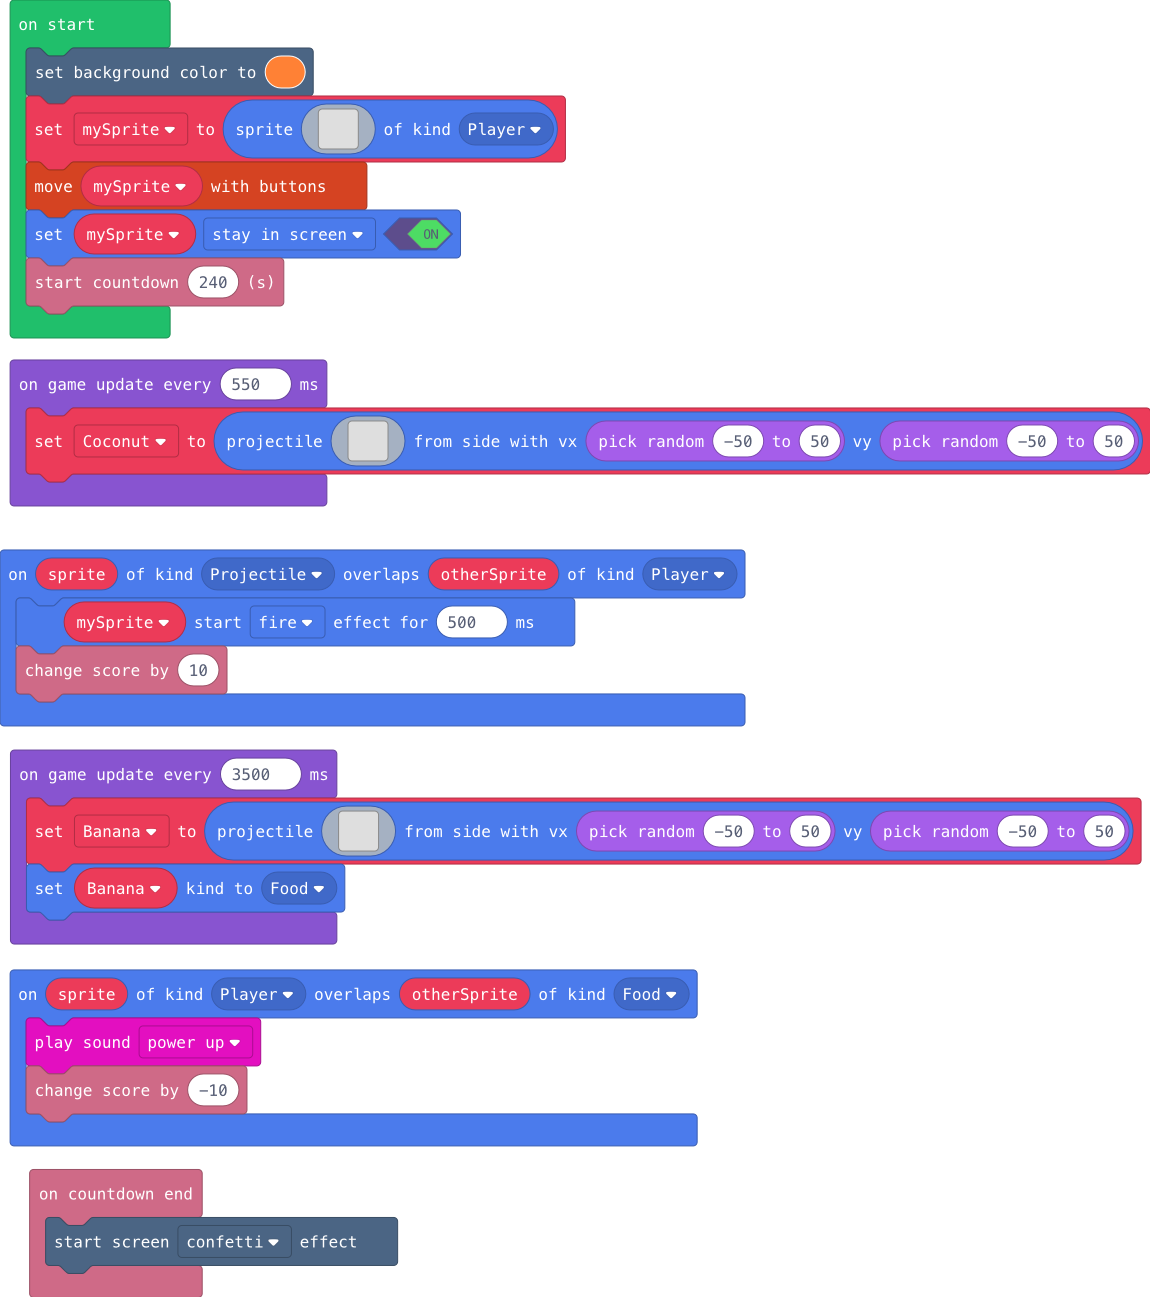
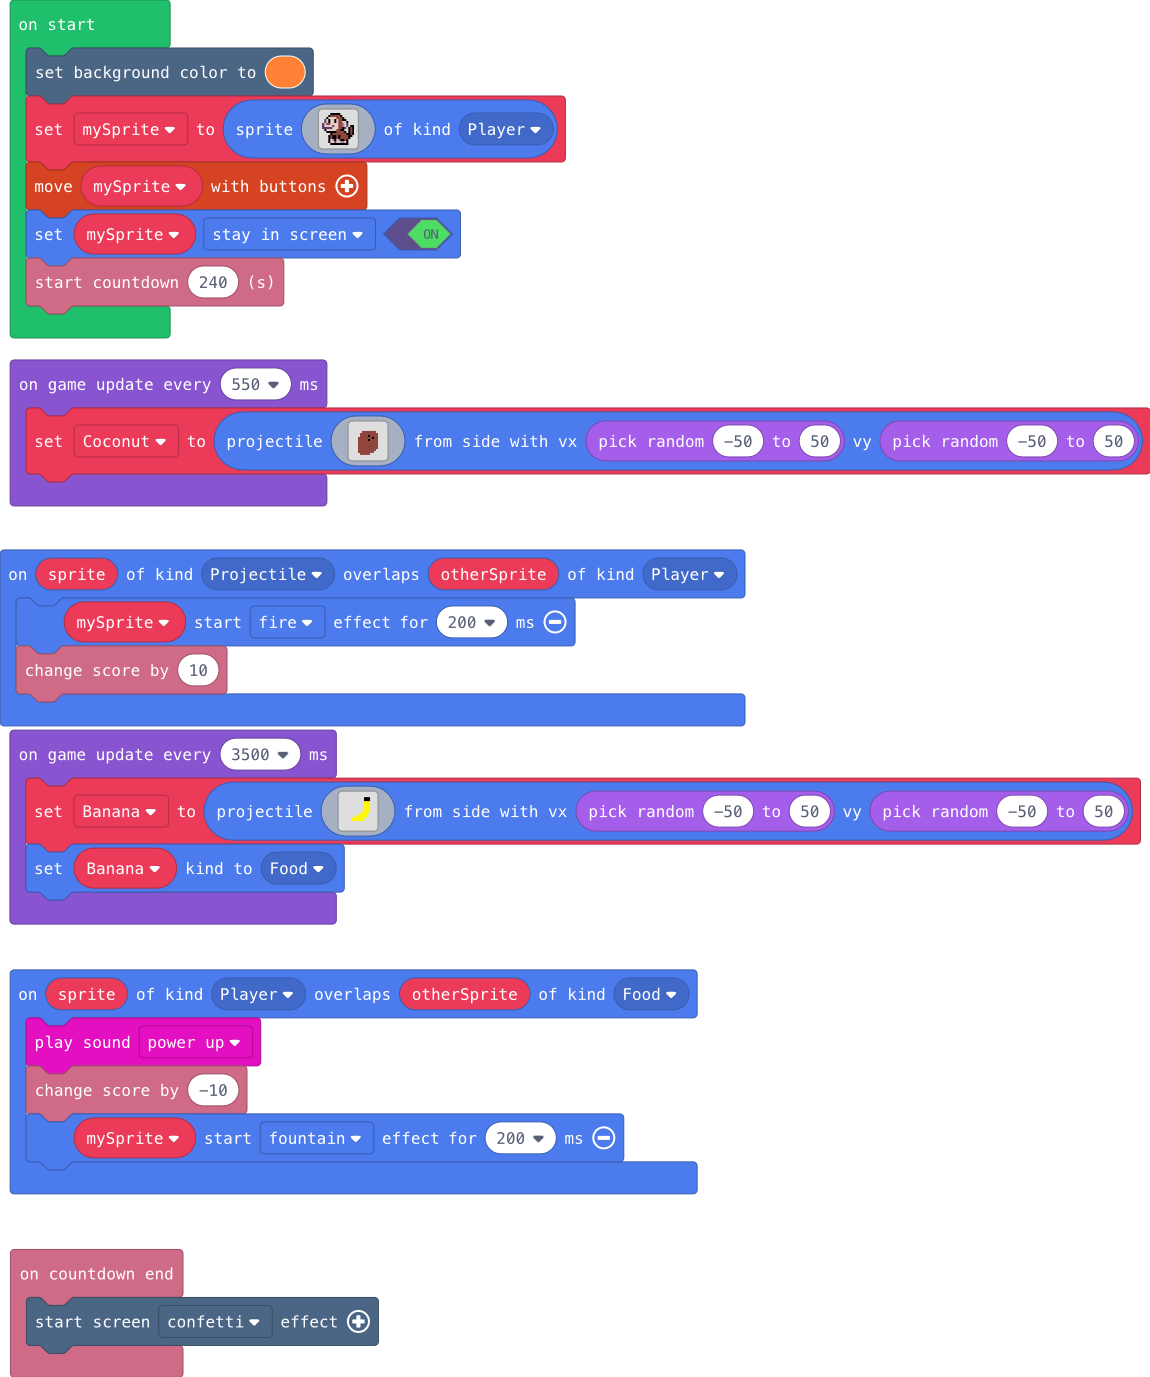
finished the game by adding confetti,sounds and other effects

diff --git a/main.ts b/main.ts
@@ -4,12 +4,13 @@ namespace SpriteKind {
 sprites.onOverlap(SpriteKind.Player, SpriteKind.Food, function (sprite, otherSprite) {
     music.powerUp.play()
     info.changeScoreBy(-10)
+    mySprite.startEffect(effects.fountain, 200)
 })
 info.onCountdownEnd(function () {
     effects.confetti.startScreenEffect()
 })
 sprites.onOverlap(SpriteKind.Projectile, SpriteKind.Player, function (sprite, otherSprite) {
-    mySprite.startEffect(effects.fire, 500)
+    mySprite.startEffect(effects.fire, 200)
     info.changeScoreBy(10)
 })
 let Coconut: Sprite = null
